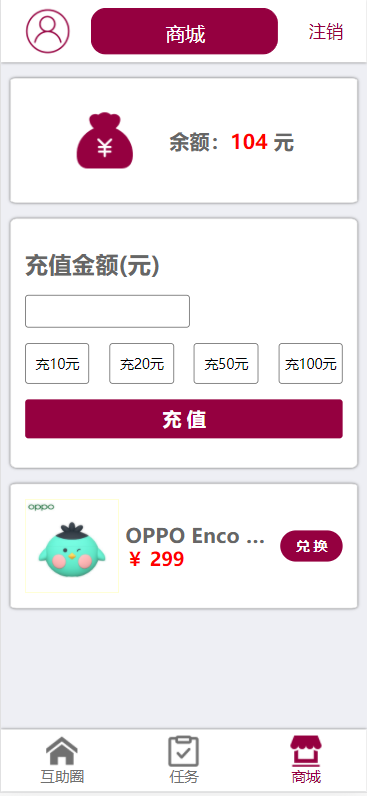
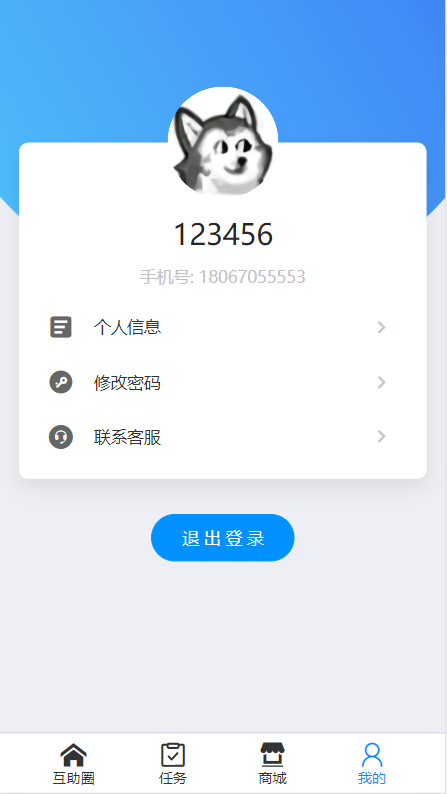
docs: 更新README

diff --git a/src/composables/useUser.ts b/src/composables/useUser.ts
@@ -1,6 +1,5 @@
 import { StorageSerializers, useStorage } from '@vueuse/core';
 import { Toast } from 'vant';
-import { ref } from 'vue';
 import { useRouter } from 'vue-router';
 import { changePassword, editUser, getUser, login, register } from '../api/user';
 
@@ -25,18 +24,6 @@ const userModel = useStorage(
 
 export const useUser = () => {
   const router = useRouter();
-
-  // const userModel = ref({
-  //   username: '',
-  //   oldPassword: '',
-  //   password: '',
-  //   passwordAgain: '',
-  //   phone: '',
-  //   email: '',
-  //   address: '',
-  //   avatar: '',
-  //   avatarFile: []
-  // });
 
   const usernameRules = [{ pattern: /^[a-zA-Z0-9_!]{2,12}$/, message: '用户名长度为2-12位' }];
   const passwordRules = [{ pattern: /^[a-zA-Z0-9_!]{6,16}$/, message: '密码长度为6-16位' }];
@@ -103,6 +90,7 @@ export const useUser = () => {
     userModel.value.avatarFile && userModel.value.avatarFile.length !== 0 && formData.append('avatar', userModel.value.avatarFile[0].file);
     const { data: res } = await editUser(formData);
     Toast(res.msg);
+    router.go(0);
   };
 
   const handleLogout = () => {
@@ -134,7 +122,6 @@ export const useUser = () => {
     }
   };
   return {
-    // user,
     userModel,
     usernameRules,
     phoneRules,

diff --git a/README.md b/README.md
@@ -1,39 +1,23 @@
-# 互助圈（校园互助平台）
+# 互助圈
 
 ## 说明
 
-本项目源自于之前用jQuery写的校园互助平台，这次用Vue重构了一遍。后端用的Egg写的屎山接口，还没有来得及重构。后台管理暂时也还没有写。
+本项目源自于之前用 jQuery 写的校园互助平台，这次用 Vue 重构了一遍。
 
-**[jQuery版](https://demo.lbviic.com/%E9%9D%99%E6%80%81%E9%A1%B5%E9%9D%A2/%E4%BA%92%E5%8A%A9%E5%9C%88)**：手动在localStorage添加一个token即可绕过登录
+前端用的是 Vue3 + TypeScript + Vite + setup语法糖
+
+后端用的是 Koa，代码见 [mutual-aid-zone-node](https://github.com/LBVIIC/mutual-aid-zone-node)
 
 ## 介绍
 
-本项目为手机网页，实现了用户的登录注册，发布接受任务，悬赏任务，充值余额，使用余额兑换商品功能。
+本项目为手机网页，实现了用户的登录注册，修改资料，发布接受任务，充值余额，兑换商品功能。
 
 ## 界面
+
+更多界面，请自行 clone 运行
 
 ![](./images/1.png)
 
 ![](./images/2.png)
 
 ![](./images/3.png)
-
-## 组件
-
-- HelpMe
-  - HelpMe.vue——帮帮我
-  - HelpMeMenu.vue——发布任务表单
-- Store
-  - Good.vue——单个商品
-  - Store.vue——商城
-- Tab
-  - FooterTab.vue——底栏
-  - HeaderTab.vue——顶栏
-- Task
-  - Task.vue——任务列表
-  - TaskList.vue——单个任务
-- Home.vue——主页面
-- IHelp.vue——我来帮
-- Login.vue——登录
-- Register.vue——注册
-